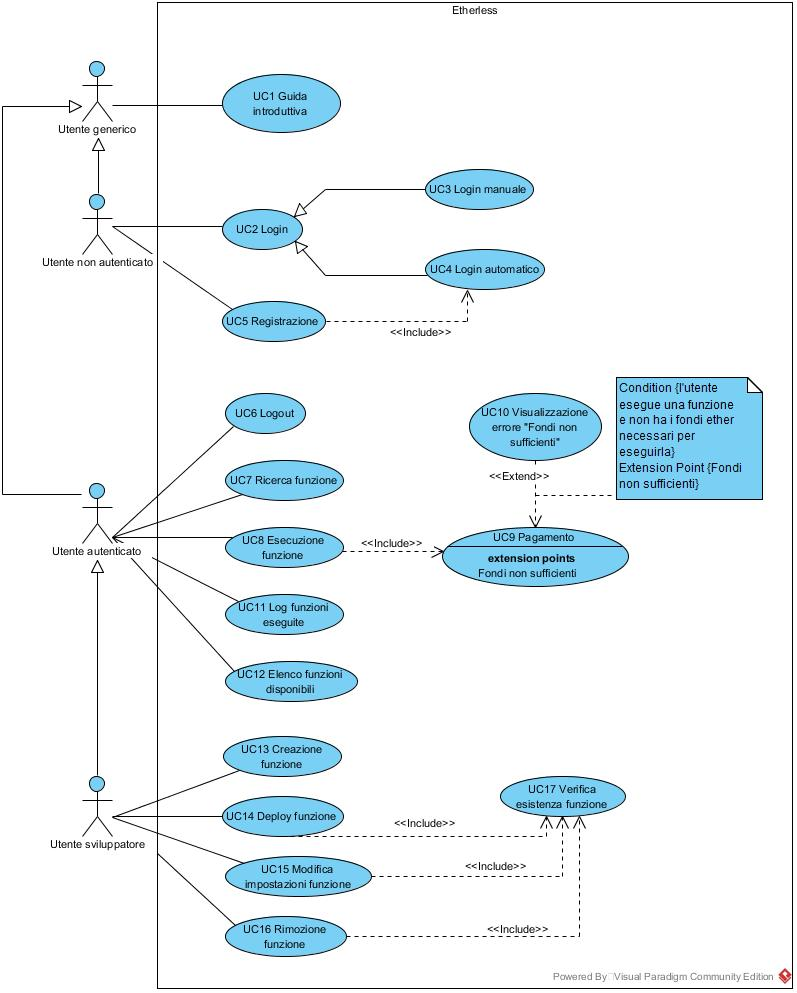
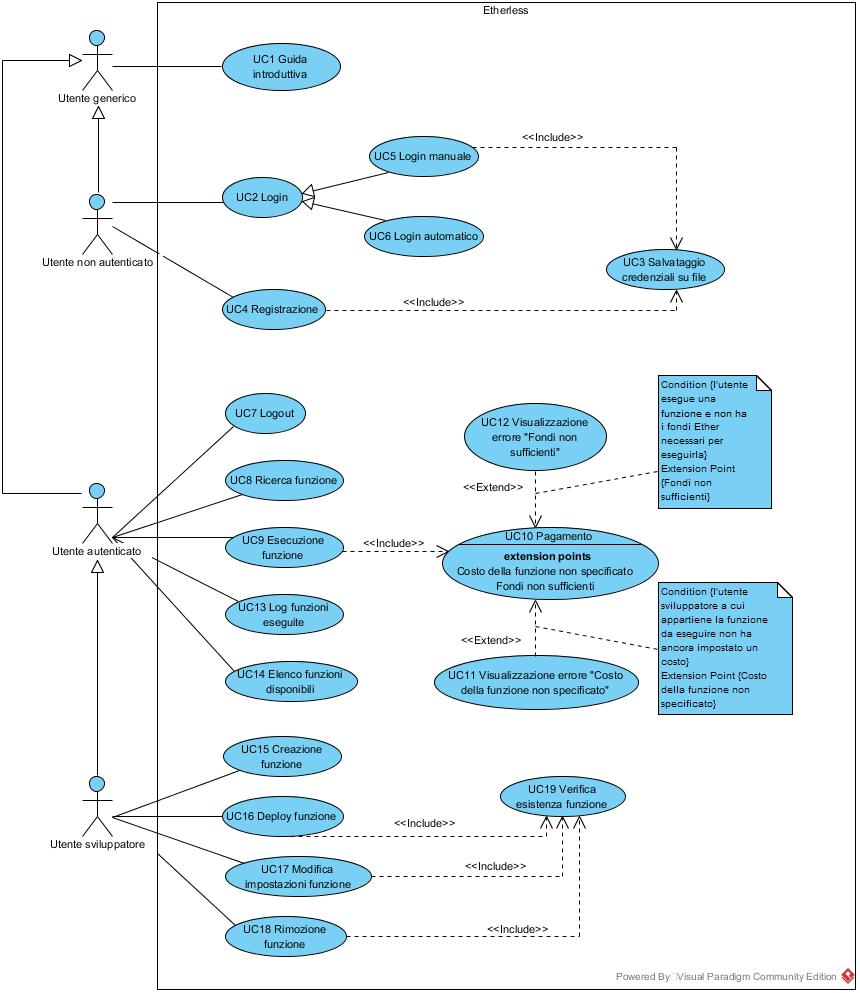
aggiunti altri UC

diff --git a/esterni/analisiDeiRequisiti/res/sections/UC/UC2.tex b/esterni/analisiDeiRequisiti/res/sections/UC/UC2.tex
@@ -1,12 +1,17 @@
 \subsubsection{UC2 - Login}
 \begin{itemize}
 	\item \textbf{Attori primari:} Utente non autenticato;
-	\item \textbf{Descrizione:} l'utente ha la possibilità di autenticarsi al network \textit{Ethereum\glo} mediante un address e una \textit{private key\glos}; 
-	\item \textbf{Pre-condizioni:} l'utente ha visualizzato la guida introduttiva e vuole eseguire l'accesso al network \textit{Ethereum} tramite l'apposito comando;
+	\item \textbf{Descrizione:} l'utente ha la possibilità di autenticarsi al network \textit{Ethereum\glo} mediante un address e di una \textit{private key\glos}; 
+	\item \textbf{Pre-condizioni:} l'utente ha visualizzato la guida introduttiva e vuole eseguire l'accesso al network \textit{Ethereum};
 	\item \textbf{Post-condizioni:} il sistema avrà autenticato o meno l'utente a seconda dei valori di accesso forniti;
-	\item \textbf{Generalizzazioni:}
+	\item \textbf{Scenario principale:} 
 	\begin{enumerate}
-		\item \textbf{UC3:} l'utente ha la possibilità di eseguire il login manuale con l'inserimento di address e \textit{private key\glo} da \textit{CLI\glos};
-		\item \textbf{UC4:} l'utente mediante l'apposito comando ha la possibilità di accedere tramite un file contenente i dati di accesso.  
+		\item Vengono inserite le credenziali di accesso (address e \textit{private key\glos}) in maniera manuale o automatica;
+		\item L'utente viene autenticato al network \textit{Ethereum\glo} è può usufruire dei comandi messi a disposizione da \textit{Etherless}.
 	\end{enumerate}
+	\item \textbf{Specializzazioni:}
+	\begin{itemize}
+		\item \textbf{UC5:} l'utente ha la possibilità di eseguire il login manuale con l'inserimento di address e \textit{private key\glo} da \textit{CLI\glos};
+		\item \textbf{UC6:} l'utente verrà automaticamente autenticato dal sistema se presente un file sul proprio dispositivo contenente le credenziali di accesso.  
+	\end{itemize}
 \end{itemize}

diff --git a/esterni/analisiDeiRequisiti/res/sections/UC/UC5.tex b/esterni/analisiDeiRequisiti/res/sections/UC/UC5.tex
@@ -1,0 +1,23 @@
+\subsubsection{UC5 - Login Manuale}
+\begin{itemize}
+	\item \textbf{Attori primari:} Utente non autenticato;
+	\item \textbf{Descrizione:} l'utente, mediante l'apposito comando ha la possibilità di autenticarsi al network \textit{Ethereum\glo} inserendo manualmente da \textit{CLI\glo} il proprio address e \textit{private key\glos} e, contestualmente, salvare in automatico le credenziali di accesso su un file sul proprio dispositivo; 
+	\item \textbf{Pre-condizioni:} l'utente ha visualizzato la guida introduttiva e vuole eseguire l'accesso manuale al network \textit{Ethereum} tramite l'apposito comando;
+	\item \textbf{Post-condizioni:} il sistema avrà autenticato o meno l'utente a seconda dei valori di accesso inseriti dall'utente dalla \textit{CLI\glos};
+	\item \textbf{Scenario principale:} L'utente scriverà un comando da \textit{CLI\glos}, composto nel seguente modo:
+	\begin{itemize}
+		\item nome del comando;
+		\item address;
+		\item \textit{private key\glos}.
+	\end{itemize} 
+	Verrà poi visualizzato a schermo un messaggio relativo all'esito dell'autenticazione.
+	\item \textbf{Inclusioni:}
+		\begin{itemize}
+		\item\textbf{UC3}: ogni qualvolta viene eseguito il login manuale da parte dell'utente, viene salvato sul dispositivo un file contenente le credenziali.
+	\end{itemize}  
+\end{itemize}
+\begin{figure}[h]
+	\centering
+	\includegraphics[width=\linewidth]{res/img/UC5.jpg}
+	\caption{Diagramma UC5 - Login manuale}
+\end{figure}

diff --git a/esterni/analisiDeiRequisiti/res/sections/UC/UC4.tex b/esterni/analisiDeiRequisiti/res/sections/UC/UC4.tex
@@ -1,0 +1,15 @@
+\subsubsection{UC4 - Registrazione}
+\begin{itemize}
+	\item \textbf{Attori primari:} Utente non autenticato;
+	\item \textbf{Descrizione:} l'utente, se non ha a disposizione un account \textit{Ethereum\glos}, potrà richiederne uno mediante l'apposito comando; 
+	\item \textbf{Pre-condizioni:} l'utente ha visualizzato la guida introduttiva e vuole eseguire la registrazione al network \textit{Ethereum};
+	\item \textbf{Post-condizioni:} il sistema registrerà l'utente al network \textit{Ethereum\glo} e lo autenticherà;
+	\item \textbf{Scenario principale:} 
+	\begin{itemize}
+		\item L'utente inserisce il comando per la registrazione
+		\item Il sistema registrerà l'utenza sulla rete \textit{Ethereum\glos};
+		\item L'utente risulterà autenticato al sistema;
+		\item L'utente potrà vedere le proprie credenziali sulla CLI\glos;
+		\item Sarà salvato un file sul dispositivo contenente le credenziali di accesso.
+	\end{itemize}
+\end{itemize}

diff --git a/esterni/analisiDeiRequisiti/res/sections/UC/UC6.tex b/esterni/analisiDeiRequisiti/res/sections/UC/UC6.tex
@@ -1,0 +1,8 @@
+\subsubsection{UC6 - Login Automatico}
+\begin{itemize}
+	\item \textbf{Attori primari:} Utente non autenticato;
+	\item \textbf{Descrizione:} l'utente, se avrà già effettuato almeno una volta l'accesso alla rete \textit{Ethereum\glo} mediante l'applicazione \textit{Etherless}, potrà accedere automaticamente senza l'inserimento manuale delle credenziali; 
+	\item \textbf{Pre-condizioni:} l'utente si è registrato oppure ha eseguito l'accesso almeno una volta mediante \textit{Ethereum};
+	\item \textbf{Post-condizioni:} il sistema autenticherà l'utente a seconda dei valori di accesso inseriti nel file;
+	\item \textbf{Scenario principale:} se il file è presente nel proprio dispositivo, l'utente avrà la possibilità di utilizzare tutti i comandi disponibili poichè automaticamente autenticato dal sistema. In caso il file risulti assente o corrotto, verrà richiesto il login manuale.
+\end{itemize}

diff --git a/esterni/analisiDeiRequisiti/res/sections/UC/UC1.tex b/esterni/analisiDeiRequisiti/res/sections/UC/UC1.tex
@@ -3,6 +3,6 @@
 	\item \textbf{Attori primari:} Utente generico;
 	\item \textbf{Descrizione:} l'utente generico, appena entrato nell'applicazione, visualizza una guida dei comandi utilizzabili; 
 	\item \textbf{Pre-condizioni:} il sistema è raggiungibile e l'applicazione è stata avviata mediante l'apposito comando;
-	\item \textbf{Post-condizioni:} Nella \textit{CLI\glo} vengono visualizzati i comandi utilizzabili dall'utente ed una loro descrizione;
-	\item \textbf{Scenario principale:} L'utente visualizza la guida introduttiva.
+	\item \textbf{Post-condizioni:} nella \textit{CLI\glo} vengono visualizzati i comandi utilizzabili dall'utente ed una loro descrizione;
+	\item \textbf{Scenario principale:} l'utente visualizza la guida introduttiva.
 \end{itemize}

diff --git a/esterni/analisiDeiRequisiti/res/sections/UC/UC7.tex b/esterni/analisiDeiRequisiti/res/sections/UC/UC7.tex
@@ -1,0 +1,12 @@
+\subsubsection{UC7 - Logout}
+\begin{itemize}
+	\item \textbf{Attori primari:} Utente autenticato;
+	\item \textbf{Descrizione:} l'utente autenticato vuole eseguire il logout dal sistema eliminando il file contenente le credenziali di accesso; 
+	\item \textbf{Pre-condizioni:} l'utente ha effettuato l'accesso ad \textit{Etherless};
+	\item \textbf{Post-condizioni:} verrà eseguito il logout dell'utente autenticato;
+	\item \textbf{Scenario principale:} 
+	\begin{itemize}
+		\item L'utente inserisce il comando per il logout;
+		\item Il sistema eseguirà il logout dell'utenza sulla rete \textit{Ethereum\glos} e cancellerà il file di accesso.
+	\end{itemize}
+\end{itemize}

diff --git a/esterni/analisiDeiRequisiti/res/sections/UC/UC9.tex b/esterni/analisiDeiRequisiti/res/sections/UC/UC9.tex
@@ -1,0 +1,11 @@
+\subsubsection{UC9 - Esecuzione funzione}
+\begin{itemize}
+	\item \textbf{Attori primari:} Utente autenticato;
+	\item \textbf{Descrizione:} l'utente autenticato esegue una delle funzioni disponibili sulla piattaforma \textit{Etherless}; 
+	\item \textbf{Pre-condizioni:} l'utente ha effettuato l'accesso ad \textit{Etherless} e vuole eseguire una tra le funzioni messe a disposizione dagli utenti sviluppatori pagando la somma richiesta;
+	\item \textbf{Post-condizioni:} il sistema visualizzerà a schermo gli output della funzione eseguita dall'utente;
+	\item \textbf{Scenario principale:} 
+	\begin{itemize}
+		\item 
+	\end{itemize}
+\end{itemize}

diff --git a/esterni/analisiDeiRequisiti/res/sections/casiUso.tex b/esterni/analisiDeiRequisiti/res/sections/casiUso.tex
@@ -36,6 +36,11 @@ Sono state identificate quattro diverse tipologie di attori primari relazionati 
 \newpage
 \input{res/sections/UC/UC1}
 \input{res/sections/UC/UC2}
-\input{res/sections/UC/UC3}
+\input{res/sections/UC/UC5}
+\input{res/sections/UC/UC6}
+\input{res/sections/UC/UC4}
+\input{res/sections/UC/UC7}
+\input{res/sections/UC/UC8}
+\input{res/sections/UC/UC9}
 	
 \subsection{Tracciamento attori - casi d'uso}	

diff --git a/esterni/analisiDeiRequisiti/res/sections/UC/UC8.tex b/esterni/analisiDeiRequisiti/res/sections/UC/UC8.tex
@@ -1,0 +1,1 @@
+\subsubsection{UC7 - Ricerca funzione}
